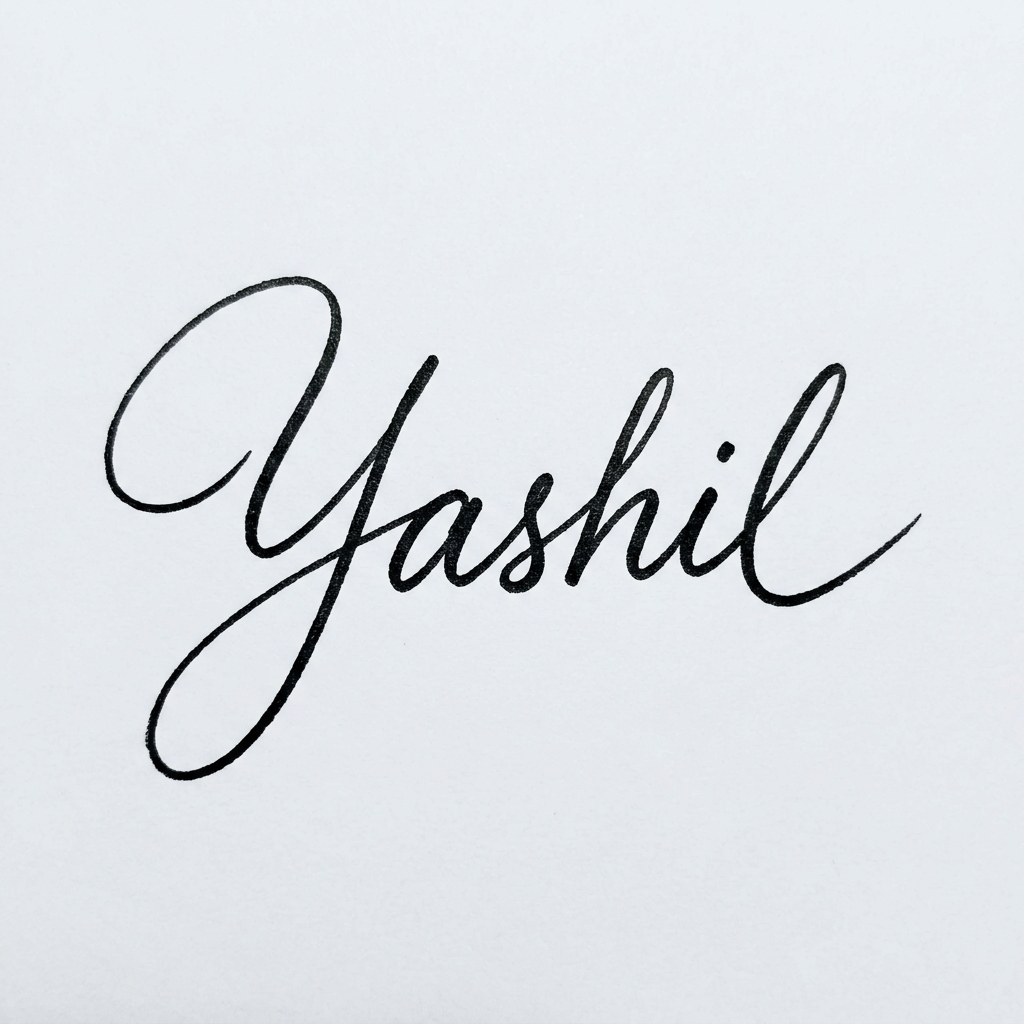
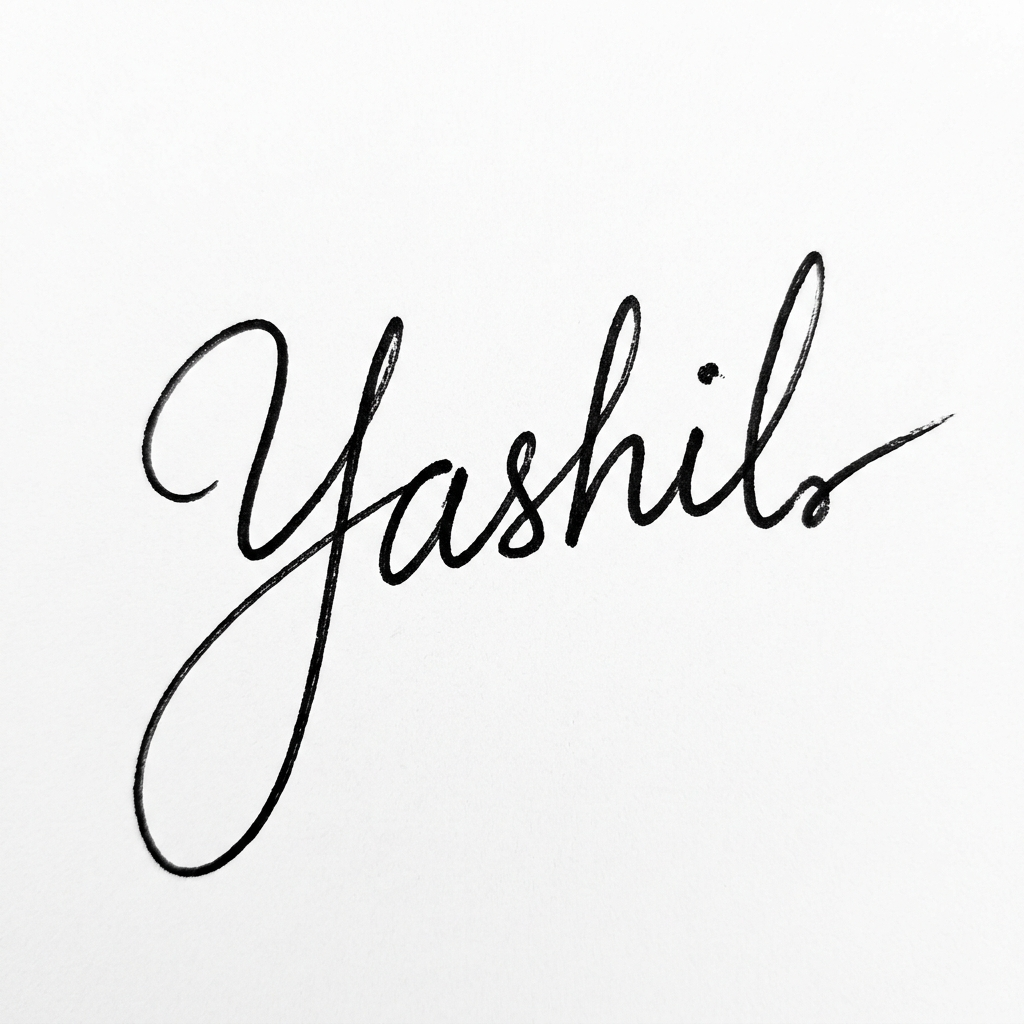
Quotation: new signature, 3 bullet notes updated, CC text TollFree

diff --git a/public/quotation_template.html b/public/quotation_template.html
@@ -537,8 +537,9 @@
                         <span id="lblBalanceDue">$0.00</span>
                     </div>
                     <ul class="pricing-notes" style="margin-top: 6px; padding-left: 10px; font-size: 7.2px; color: var(--text-muted); line-height: 1.3; list-style-type: disc; text-align: left; font-weight: 500;">
-                        <li>This Quote is valid for 10 days from the issue date. System layout is provisional. SAA Accredited Installer will design and install system based on actual site conditions.</li>
-                        <li>The Balance Due may change if the Proposed STC Rebates change or are not formalised. Please read the terms and conditions contained on pages 2-3 of this Quotation.</li>
+                        <li><strong style="color: var(--text-dark);">Quote Validity</strong>: 10 Days from issue date.</li>
+                        <li><strong style="color: var(--text-dark);">System Notes</strong>: The system design is provisional. A fully certified installer will complete the final panel layout tailored to your actual site conditions on the day of installation or during site visit.</li>
+                        <li><strong style="color: var(--text-dark);">STC &amp; Finance</strong>: The final Balance Due may vary if there are changes to the estimated STC Rebate value or approval process. Acceptance of this quote is subject to the Terms &amp; Conditions contained in this Quotation.</li>
                     </ul>
                     
                     <div class="specs-title" style="margin-top: 12px; margin-bottom: 4px;">Quotation Notes</div>
@@ -581,7 +582,7 @@
                 </h5>
                 <p>We accept Visa and MasterCard.</p>
                 <p>Card surcharges of 2% apply to all card transactions.</p>
-                <p>Call office on [phone redacted] to pay.</p>
+                <p>Call TollFree on [phone redacted] to Pay.</p>
             </div>
         </div>
 